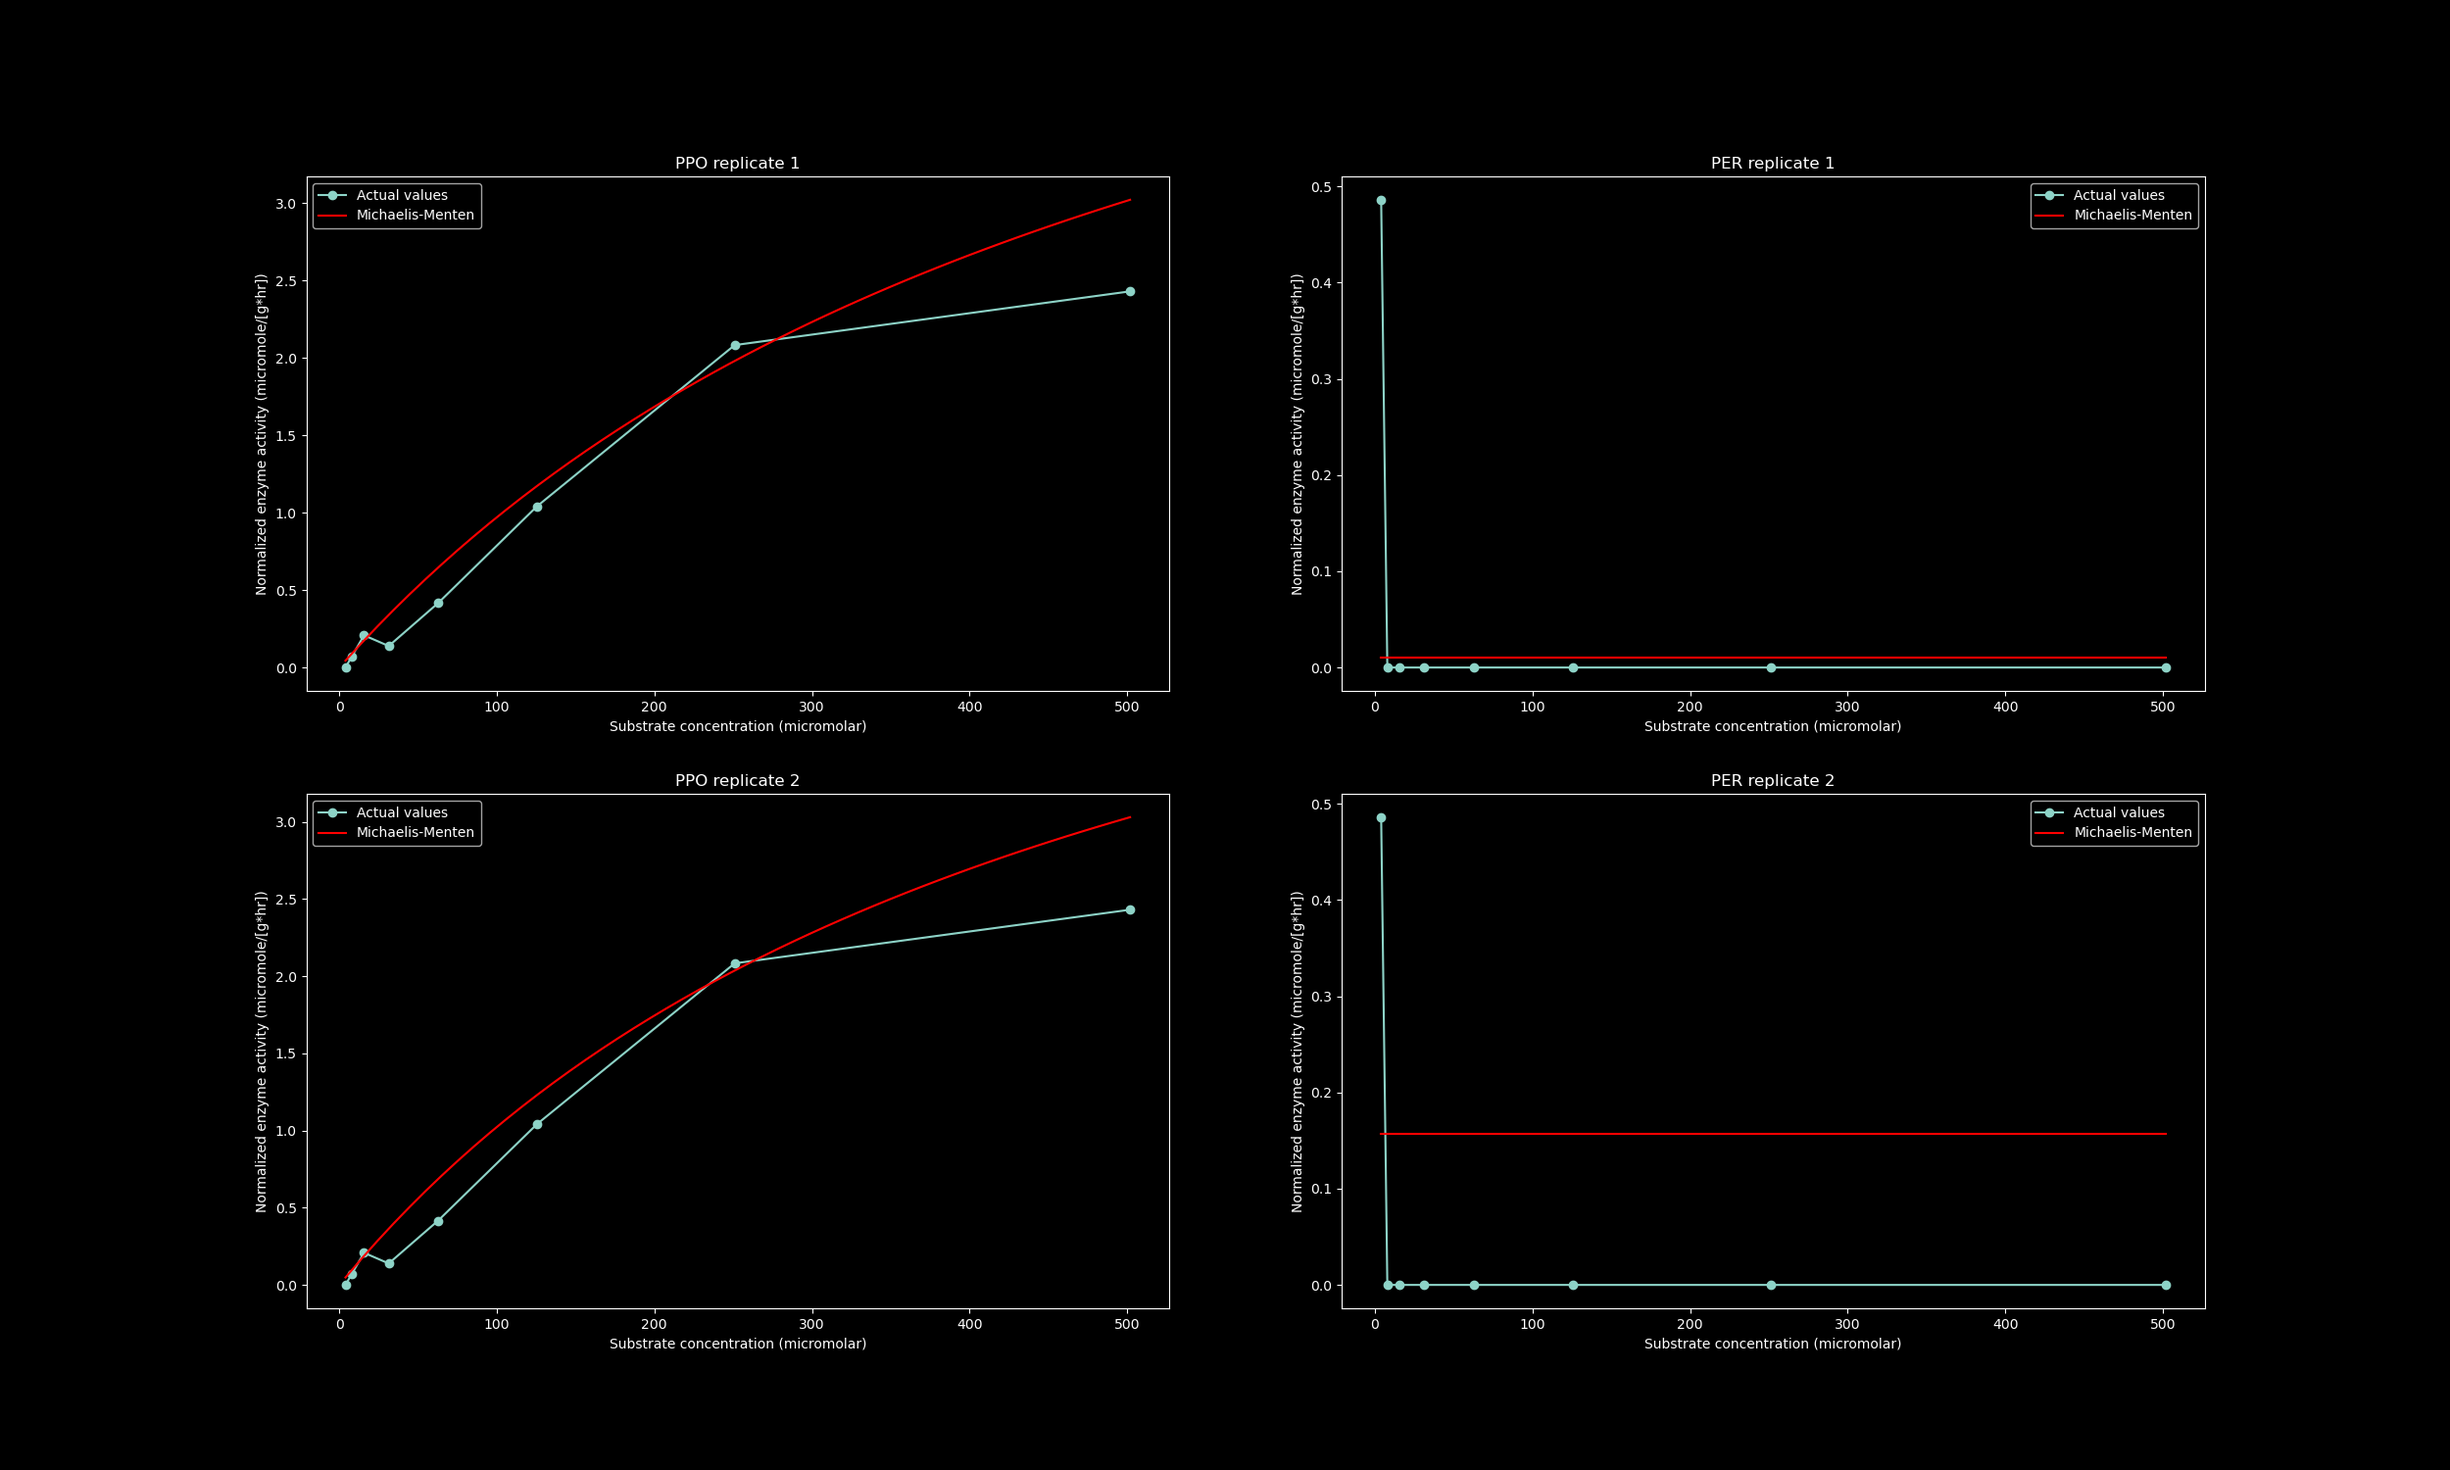
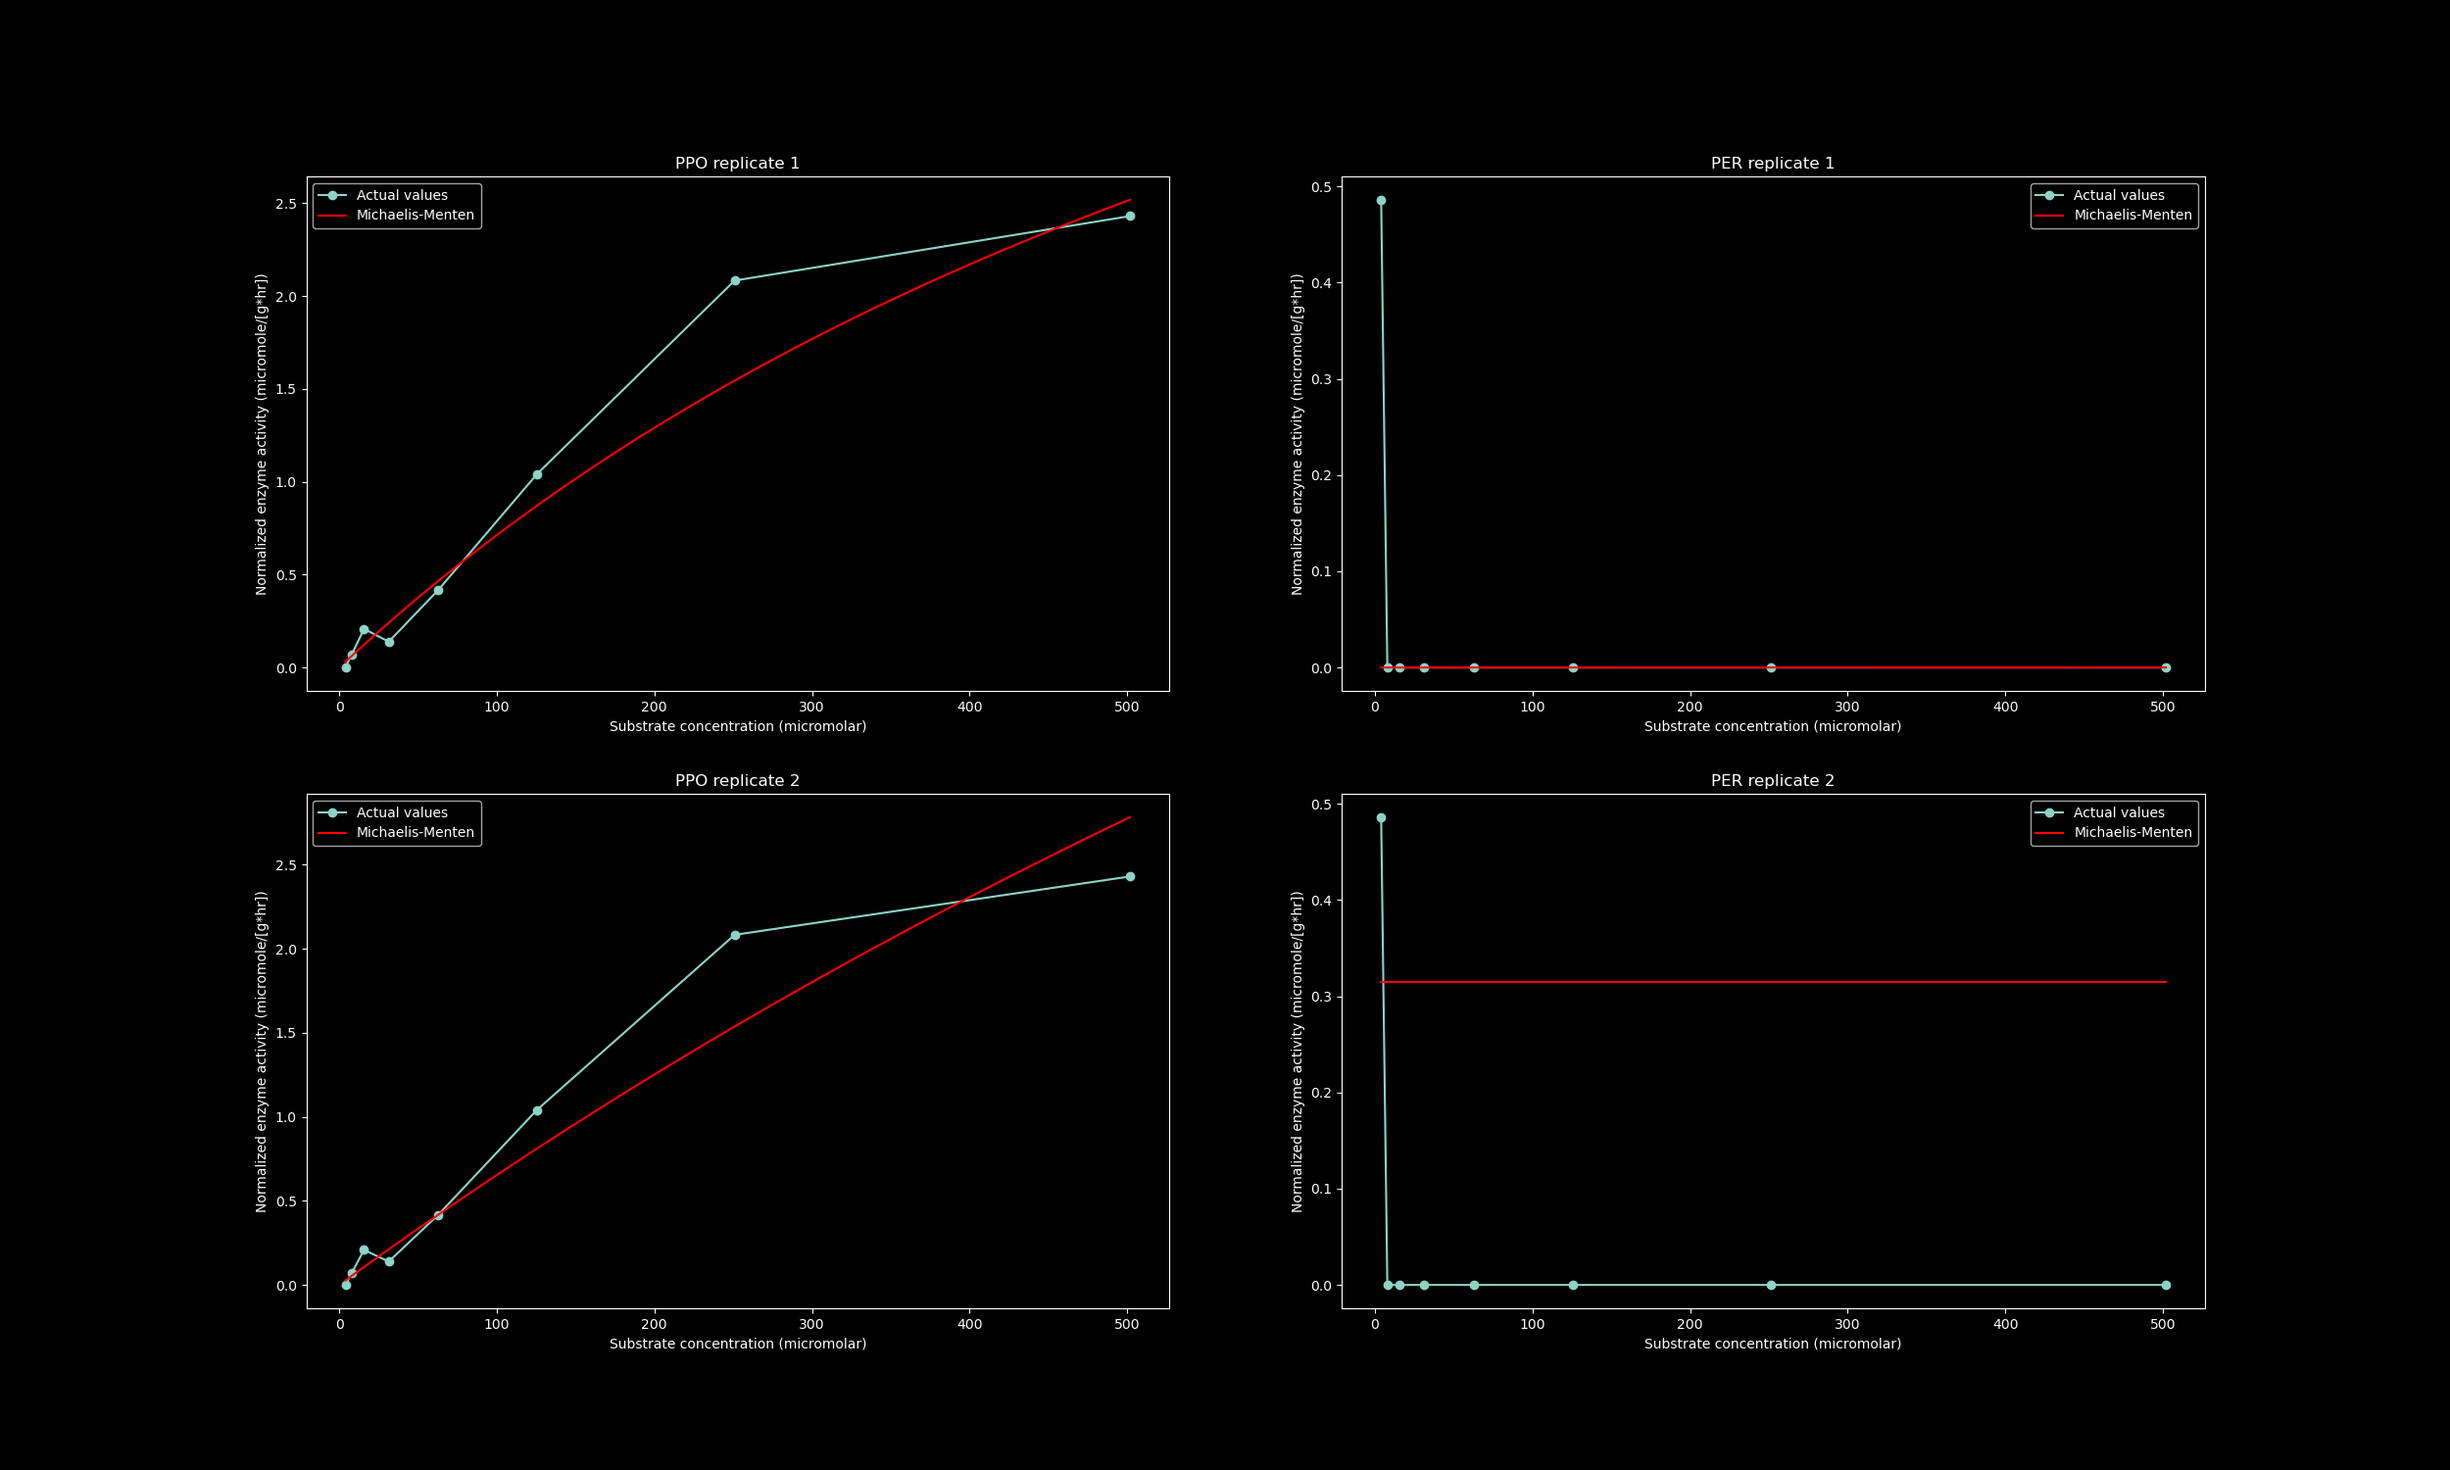
Successfully obtained all T5 oxidase parameters & plotted their actual & predicted activities
Hooray, I did it. I managed to obtain all the parameter values for T5 oxidase and plotted their predicted & actual activities. Now, all I have left is T6, which I will work on some other time.

diff --git a/enzymeWrangling.py b/enzymeWrangling.py
@@ -1043,8 +1043,6 @@ def nonlinRegress(data, enzymeType, timepoint=None):
         # removing sample 47RRX because in T5, its oxidative enzyme activity
         # was assayed twice.
         samp47 = data[data["ID"] == "47RRX"]
-        samp47_190125 = samp47[samp47["Assay date"] == "190125"]
-        samp47_190222 = samp47[samp47["Assay date"] == "190222"]
         data = data[data["ID"] != "47RRX"]
     samples = data.groupby("ID")["ID"].count().index.tolist()
 
@@ -1116,7 +1114,6 @@ def nonlinRegress(data, enzymeType, timepoint=None):
     if enzymeType == "O" and timepoint == 5:
         dates = samp47.groupby("Assay date")["Assay date"].count().index
         dates = dates.tolist()
-        # sampleIndex = VmaxDF[VmaxDF["ID"] == "47RRX"].index
         sampleIndex = 0
         Vmax47DF = pd.DataFrame({"ID": ["47RRX"]})
         Km47DF = pd.DataFrame({"ID": ["47RRX"]})
@@ -1178,6 +1175,7 @@ def nonlinRegress(data, enzymeType, timepoint=None):
                          value_name="Km")
         params47DF = pd.merge(left=Vmax47DF, right=Km47DF, how="inner",
                               on=["ID", "Enzyme"])
+        params47DF["Enzyme"] = params47DF["Enzyme"].str.split(" ")
         for index, row in params47DF.iterrows():
             enzymeList = row["Enzyme"]
             params47DF.loc[index, "Replicate"] = enzymeList[1]
@@ -1385,7 +1383,6 @@ def plotRegress(data, params, enzymeType, cleanInstance, timepoint,
     # If data is T5 oxidase, then this plots sample 47RRX
     if enzymeType == "O" and timepoint == 5:
         sampleParams = params[params["ID"] == "47RRX"]
-        print(sampleParams)
         dates = samp47.groupby("Assay date")["Assay date"].count().index
         dates = dates.tolist()
         for date in dates:

diff --git a/processEnzymeActivity.py b/processEnzymeActivity.py
@@ -302,6 +302,6 @@ T5oxiData = ew.clean(T5processing, T5oxiData, "O")
 # Michaelis-Menten parameters
 T5pro1oxiFigs = unproFigs/"T5"/ezFigsFolders[1]/pro1FolderName
 T5oxiParams = ew.nonlinRegress(T5oxiData, "O", 5)
-# ew.plotRegress(T5oxiData, T5oxiParams, "O", 1, 5, T5pro1oxiFigs)
+ew.plotRegress(T5oxiData, T5oxiParams, "O", 1, 5, T5pro1oxiFigs)
 # %%
 print(datetime.now() - startTime)
